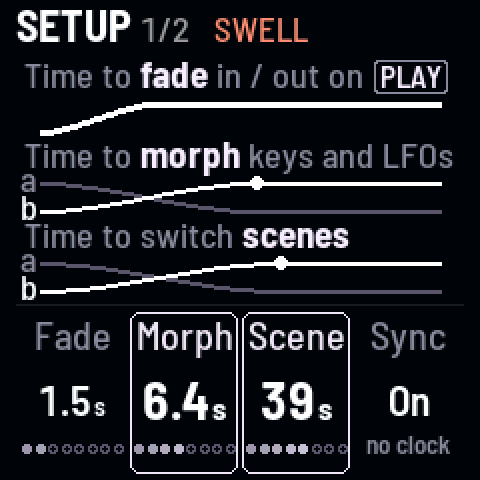
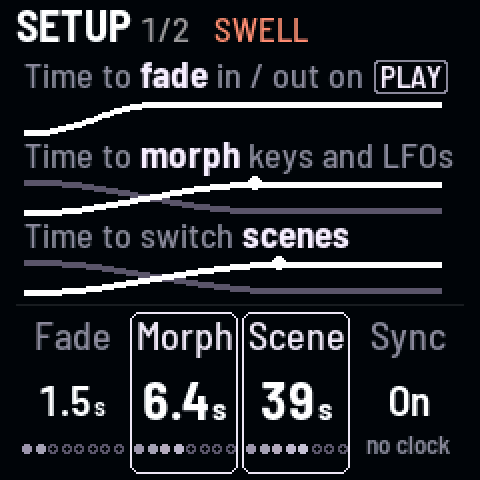
Setup 1: the shortest time a jump, the turned row thicker, no "a" / "b"
Each change starts 6 px in, so at the shortest times a row shows a jump instead of a flat line. The knob
being turned draws its row 1 px thicker (Fade 4 px, a crossfade's lines 3), beside its dot. The "a" / "b"
letters are gone (gray going, white coming says it), and the rows start at x 12. Only Setup 1's screens change.

diff --git a/firmware/src/app/look.c b/firmware/src/app/look.c
@@ -1748,32 +1748,30 @@ static void lk_pic_setup1(void)
     const float frac[3] = {(float)proj.par[P_FADE] * 0.01f, (float)proj.par[P_MORPH] * 0.01f,
                            dr_ext_spb > 0.0f ? (float)proj.par[P_SCENE_BARS] / (float)(DR_NBARS - 1)
                                              : (float)proj.par[P_SCENE_T] * 0.01f};
-    int r, i, s;
-    for (r = 0; r < 3; r++) {
-        const int32_t base = 16 + 40 * r, top = base + 7, bot = base + 21;
-        const int32_t xe = 20 + (int32_t)(fm_clampf(frac[r], 0.0f, 1.0f) * 200.0f + 0.5f);
-        int16_t y[101];
+    int r, i, s, k;
+    for (r = 0; r < 3; r++) {                  /* the change starts 6 px in, so the shortest time is a jump, not a flat
+                                                * line (the review, 2026-11-17); no "a" / "b": gray going, white coming */
+        const int32_t base = 16 + 40 * r, top = base + 7, bot = base + 21, x0 = 12, xs = x0 + 6;
+        const int32_t xe = xs + (int32_t)(fm_clampf(frac[r], 0.0f, 1.0f) * 202.0f + 0.5f);
+        int16_t y[105];
         int32_t x = 12;                        /* words at 18, the knob's in bold (19: the one bold near it); the
                                                 * longest, morph's, 215 px */
         x = cv_text(x, base - LK_B(LK_F_SMALL), &LK_F_SMALL, PRE[r], LK_LABEL);
         x = cv_text(x, base - LK_B(FONT_B), &FONT_B, BOLD[r], LK_INK);
         lk_ktext(x, base - LK_B(LK_F_SMALL), &LK_F_SMALL, POST[r], LK_LABEL);
-        for (s = r ? 0 : 1; s < 2; s++) {     /* s 0: a going out; 1: b coming in (Fade's rise) */
-            for (i = 0; i <= 100; i++) {
-                const int32_t xi = 20 + 2 * i;
-                const float u = xi >= xe ? 1.0f : lk_ease((float)(xi - 20) / (float)(xe > 20 ? xe - 20 : 1));
+        for (s = r ? 0 : 1; s < 2; s++) {     /* s 0: the old going out; 1: the new coming in (Fade's rise) */
+            const int extra = (r ? 0 : 1) + (lit(r) ? 1 : 0);   /* Fade 3 px, the knob being turned 1 more */
+            for (i = 0; i <= 104; i++) {
+                const int32_t xi = x0 + 2 * i;
+                const float u = xi < xs ? 0.0f : xi >= xe ? 1.0f : lk_ease((float)(xi - xs) / (float)(xe > xs ? xe - xs : 1));
                 y[i] = (int16_t)(s ? bot - (int32_t)((float)(bot - top) * u + 0.5f) : top + (int32_t)((float)(bot - top) * u + 0.5f));
             }
-            lk_plot(20, y, 101, s ? LK_WHITE : LK_UNLIT);
-            if (!r) {                          /* Fade: one thick line, 3 px */
-                for (i = 0; i <= 100; i++)
-                    y[i]++;
-                lk_plot(20, y, 101, LK_WHITE);
+            lk_plot(x0, y, 105, s ? LK_WHITE : LK_UNLIT);
+            for (k = 0; k < extra; k++) {
+                for (i = 0; i <= 104; i++)
+                    y[i] = (int16_t)(y[i] + (s ? 1 : -1));   /* thicker away from the other line */
+                lk_plot(x0, y, 105, s ? LK_WHITE : LK_UNLIT);
             }
-        }
-        if (r) {
-            cv_text(10, top - LK_B(LK_F_SMALL) + 5, &LK_F_SMALL, "a", LK_LABEL);   /* beside where each starts */
-            cv_text(10, bot - LK_B(LK_F_SMALL) + 5, &LK_F_SMALL, "b", LK_WHITE);
         }
         if (lit(r))                            /* the knob's time: where the change ends */
             cv_round(xe - 3, top - 3 + (r ? 0 : 1), 7, 7, 3, LK_WHITE);
